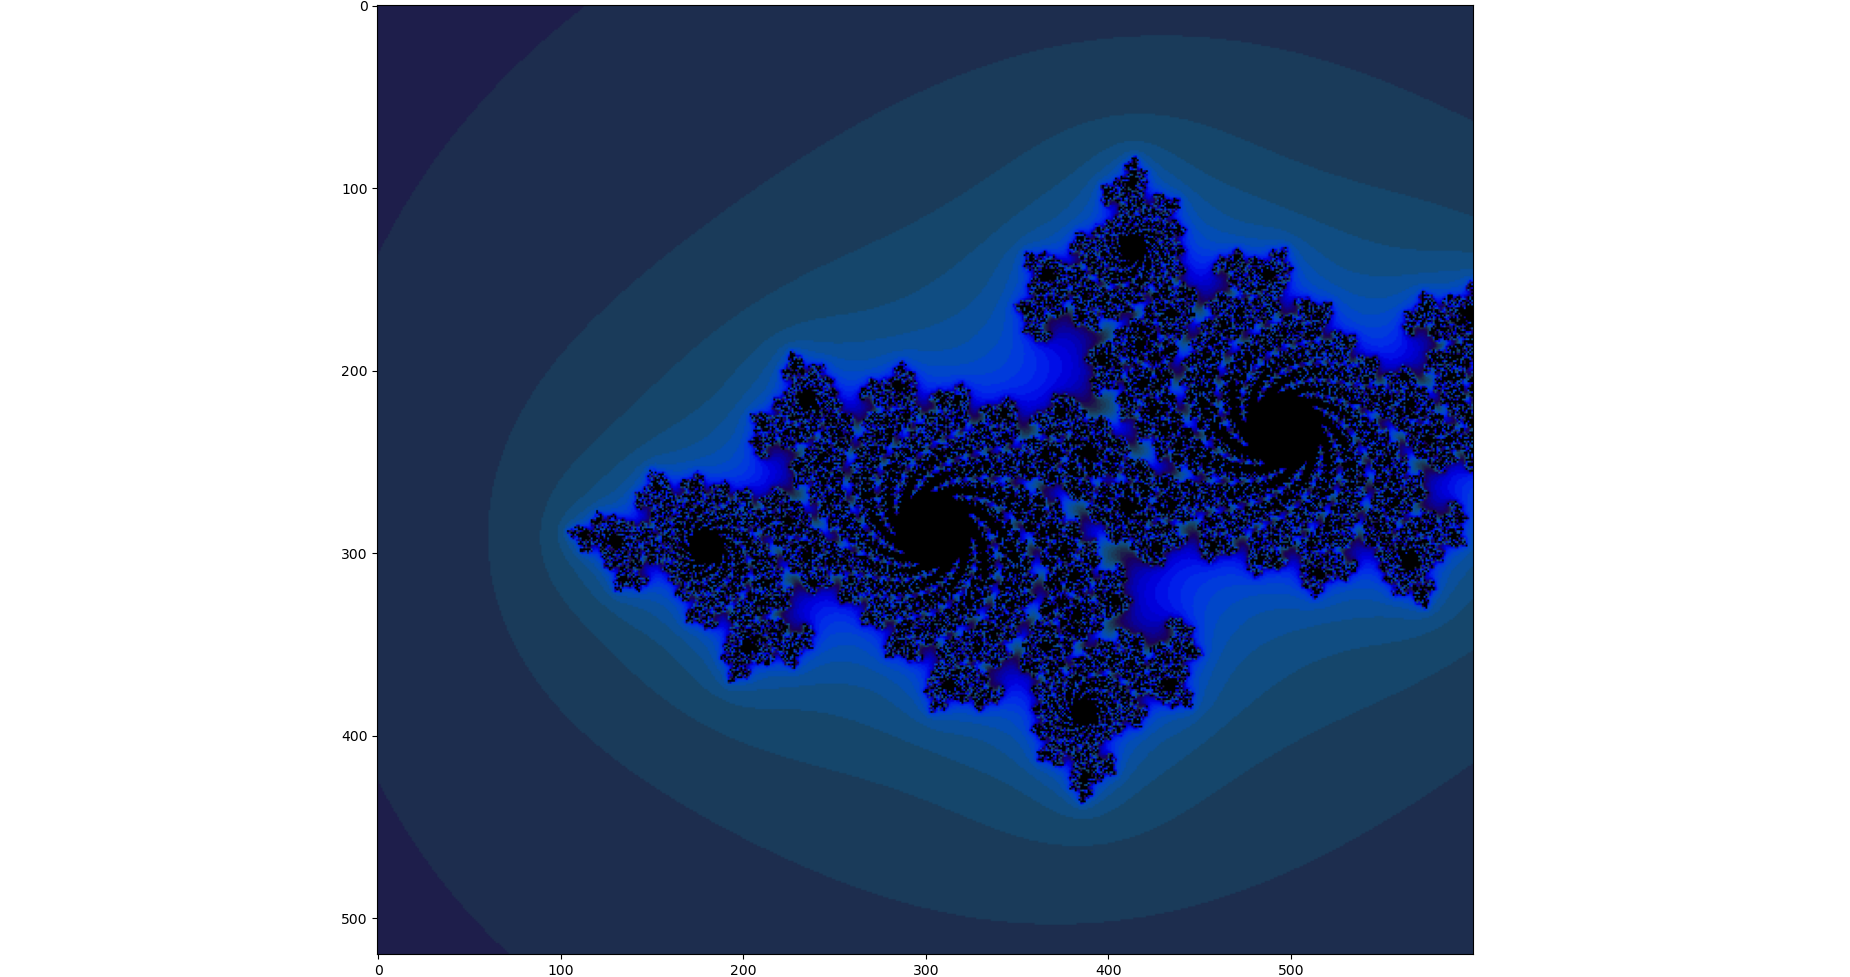
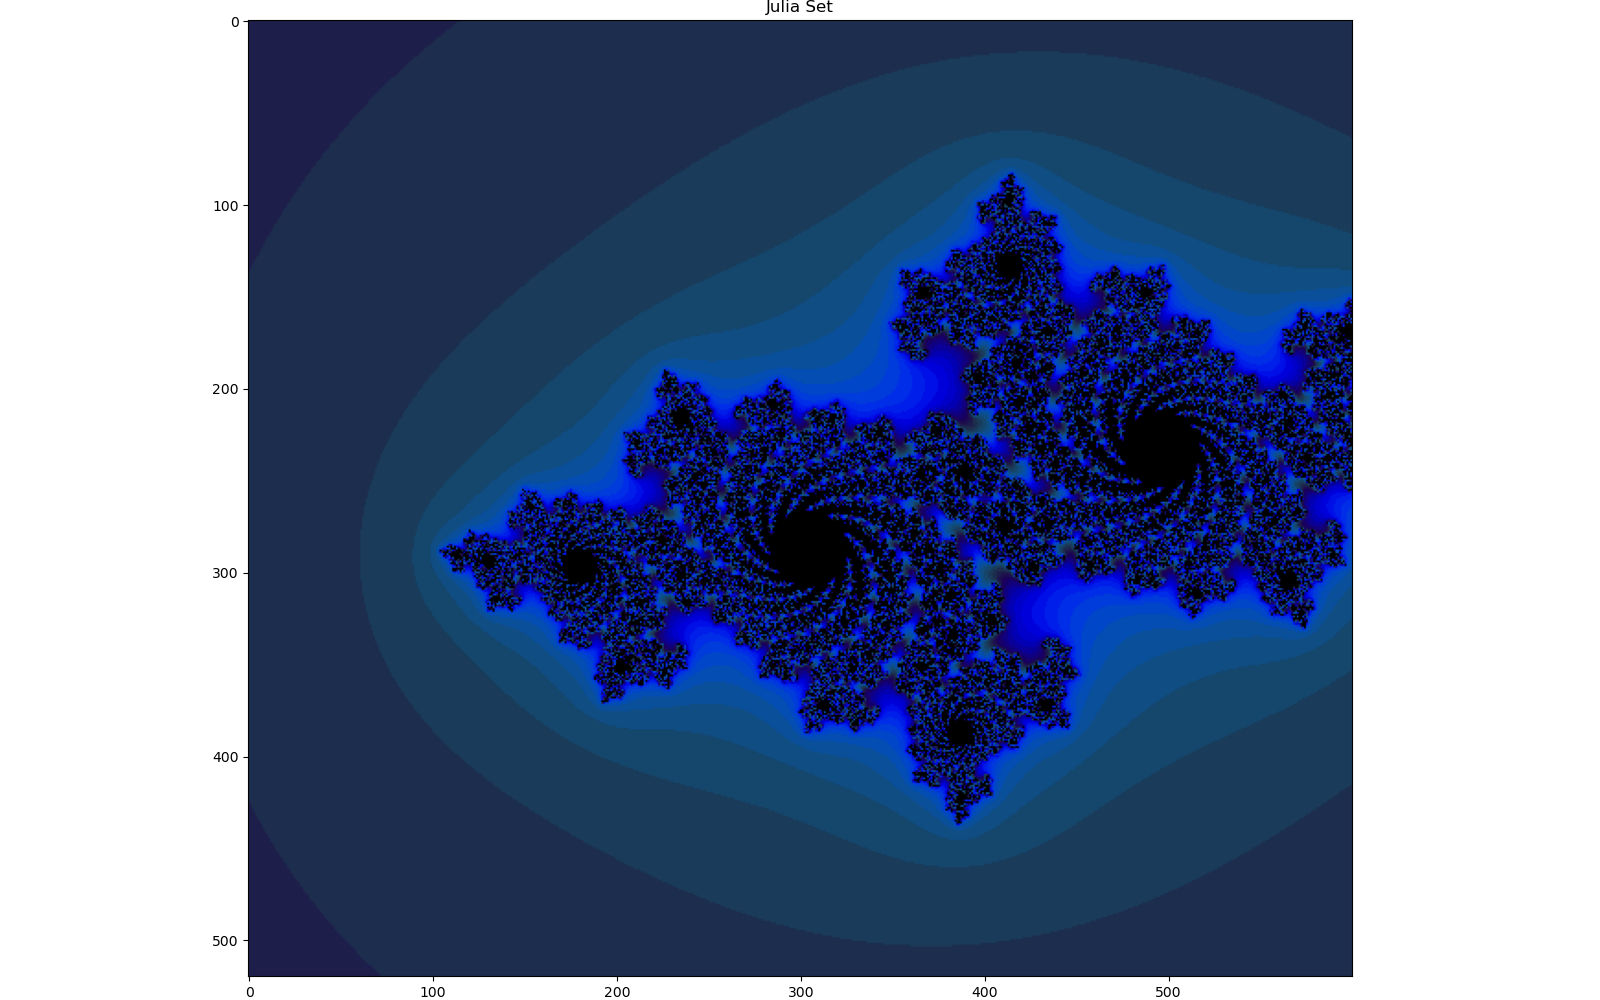
style changes

diff --git a/prac1/part2.py b/prac1/part2.py
@@ -2,41 +2,6 @@ import torch
 import numpy as np
 import matplotlib.pyplot as plt
 
-# Device configuration
-device = torch.device('cuda' if torch.cuda.is_available() else 'cpu')
-
-# Use NumPy to create a 2D array of complex numbers on [-2,2]x[-2,2]
-Y, X = np.mgrid[-1.3:1.3:0.005, -2:1:0.005]
-# Y, X = np.mgrid[-0.772:-0.76:0.00001, -0.272:-0.26:0.00001]   # zoomed mgrid
-
-# Load into PyTorch tensors
-x = torch.Tensor(X)
-y = torch.Tensor(Y)
-z = torch.complex(x, y)
-zs = z.clone()
-ns = torch.zeros_like(z)
-c = complex(-0.7, 0.27015)  # Julia set constant
-
-# Transfer to the GPU device
-z = z.to(device)
-zs = zs.to(device)
-ns = ns.to(device)
-
-# Mandelbrot Set
-for i in range(200):
-    # Compute the new values of z: z^2 + x
-    # zs_ = zs * zs + z       # Mandelbrot set
-    zs_ = zs * zs + c       # Julia set
-    
-    # Have we diverged with this new value?
-    not_diverged = torch.abs(zs_) < 4.0
-
-    # Update variables to compute
-    ns += not_diverged
-    zs = zs_
-
-fig = plt.figure(figsize=(16,10))
-
 def processFractal(a):
     '''
     Display an array of iteration counts as a colourful picture of a fractal
@@ -50,6 +15,98 @@ def processFractal(a):
     a = np.uint8(np.clip(a, 0, 255))
     return a
 
+# Device configuration
+device = torch.device('cuda' if torch.cuda.is_available() else 'cpu')
+
+# Use NumPy to create a 2D array of complex numbers on [-2,2]x[-2,2]
+Y, X = np.mgrid[-1.3:1.3:0.005, -2:1:0.005]
+Y1, X1 = np.mgrid[-0.772:-0.76:0.00001, -0.272:-0.26:0.00001]   # zoomed mgrid
+
+# Load Mandelbrot PyTorch tensors
+x = torch.Tensor(X)
+y = torch.Tensor(Y)
+z = torch.complex(x, y)
+zs = z.clone()
+ns = torch.zeros_like(z)
+z = z.to(device)
+zs = zs.to(device)
+ns = ns.to(device)
+
+# Load Mandelbrot zoomed PyTorch tensors
+x1 = torch.Tensor(X1)
+y1 = torch.Tensor(Y1)
+z1 = torch.complex(x1, y1)
+zs1 = z1.clone()
+ns1 = torch.zeros_like(z1)
+z1 = z1.to(device)
+zs1 = zs1.to(device)
+ns1 = ns1.to(device)
+
+# Load Julia PyTorch tensors
+x2 = torch.Tensor(X)
+y2 = torch.Tensor(Y)
+z2 = torch.complex(x2, y2)
+zs2 = z2.clone()
+ns2 = torch.zeros_like(z2)
+c = complex(-0.7, 0.27015)  # Julia set constant
+z2 = z2.to(device)
+zs2 = zs2.to(device)
+ns2 = ns2.to(device)
+
+
+for i in range(200):
+    # Compute the new values of z: z^2 + x
+    zs_ = zs * zs + z       # Mandelbrot set
+    zs1_ = zs1 * zs1 + z1       # Mandelbrot set zoomed
+    zs2_ = zs2 * zs2 + c       # Julia set
+    
+    '''
+    For Mandelbrot Set
+    '''
+    # Have we diverged with this new value?
+    not_diverged = torch.abs(zs_) < 4.0
+
+    # Update variables to compute
+    ns += not_diverged
+    zs = zs_
+
+    '''
+    For Mandelbrot zoomed set
+    '''
+    # Have we diverged with this new value?
+    not_diverged = torch.abs(zs1_) < 4.0
+
+    # Update variables to compute
+    ns1 += not_diverged
+    zs1 = zs1_
+
+    '''
+    For Julia set
+    '''
+    # Have we diverged with this new value?
+    not_diverged = torch.abs(zs2_) < 4.0
+
+    # Update variables to compute
+    ns2 += not_diverged
+    zs2 = zs2_
+
+# Mandelbrot set
+fig = plt.figure(figsize=(16,10))
 plt.imshow(processFractal(ns.cpu().numpy()))
+plt.title('Mandelbrot Set')
+plt.tight_layout(pad=0)
+plt.show()
+
+# Mandelbrot zoomed
+fig = plt.figure(figsize=(16,10))
+plt.imshow(processFractal(ns1.cpu().numpy()))
+plt.title('Mandelbrot Set Zoomed')
+plt.tight_layout(pad=0)
+plt.show()
+
+# Julia set
+fig = plt.figure(figsize=(16,10))
+plt.imshow(processFractal(ns2.cpu().numpy()))
+plt.title('Julia Set')
 plt.tight_layout(pad=0)
 plt.show()

diff --git a/prac1/part1.py b/prac1/part1.py
@@ -2,7 +2,7 @@ import torch
 import numpy as np
 import matplotlib.pyplot as plt
 
-print("PyTorch Version:", torch.__version__)
+print("PyTorch Version:", torch.__version__)    # PyTorch version
 
 # Sine parameters
 A = 100
@@ -24,9 +24,9 @@ x = x.to(device)
 y = y.to(device)
 
 # Compute equations
-z1 = torch.exp(-(x**2 + y**2) / 2.0)    # Gaussian
-z2 = A * torch.sin(freq * (x + y) + phase) # 2d Sine
-z = z1 * z2                             # Multiplied outputs
+z1 = torch.exp(-(x**2 + y**2) / 2.0)        # Gaussian
+z2 = A * torch.sin(freq * (x + y) + phase)  # 2d Sine
+z = z1 * z2                                 # Multiplied outputs
 
 # Plot z1
 plt.imshow(z1.numpy())
